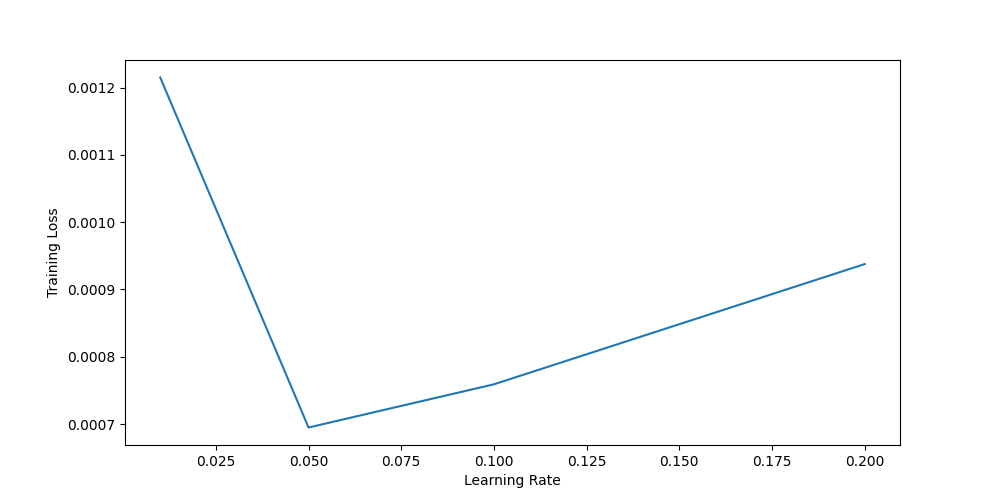
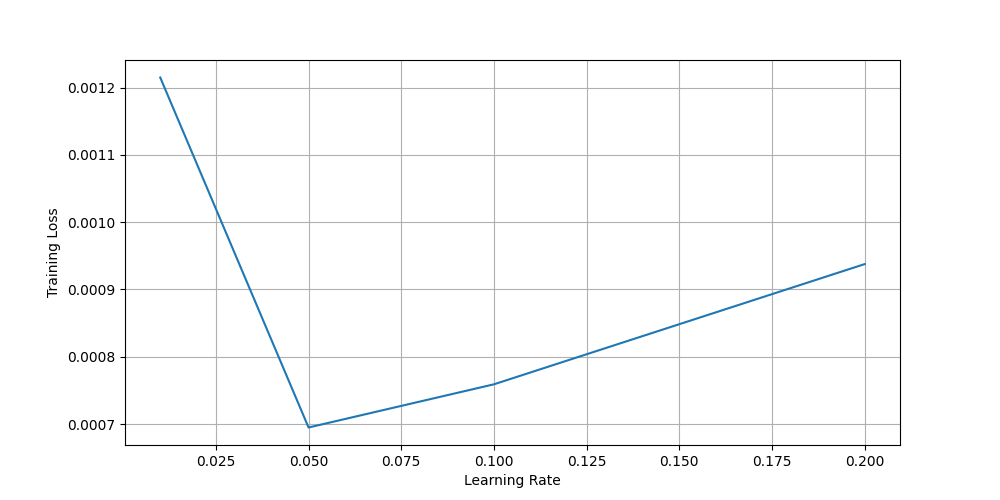
added gridlines

diff --git a/data_processing/generate_graphs.py b/data_processing/generate_graphs.py
@@ -70,6 +70,7 @@ def generate_graphs(df, x, y, file_name, output_dir):
 
     plt.xlabel(x_label)
     plt.ylabel(y_label)
+    plt.grid()
     plt.savefig(os.path.join(output_dir, f'{file_name}.png'))
     plt.close()
 
@@ -86,7 +87,7 @@ if __name__ == "__main__":
     for label in labels:
         if label not in ['testing_acc', 'training_loss']:
             acc_df, loss_df = accuracy_select(data, label)  # Pass the loaded data to the function
-            
+
             generate_graphs(acc_df, f'{label}', 'testing_acc', f'{label}_testing_acc', args.output)  # Pass the loaded data to the function
             generate_graphs(loss_df, f'{label}', 'training_loss', f'{label}_training_loss', args.output)  # Pass the loaded data to the function
 
